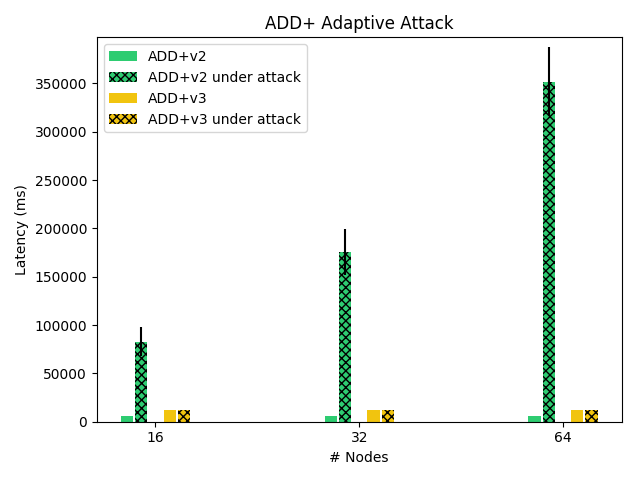
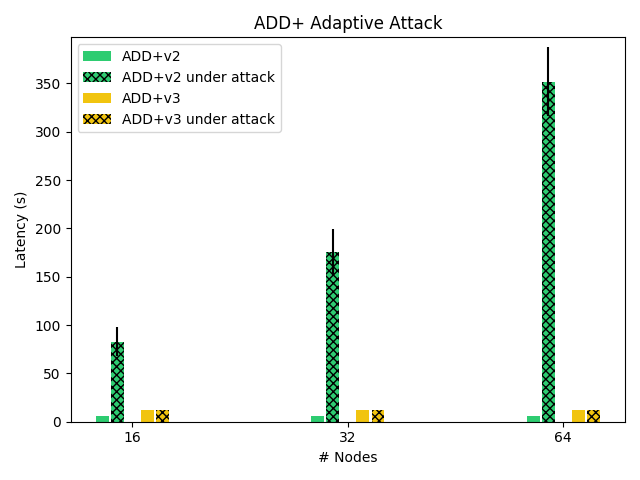
attack ms to s

diff --git a/draw-attack.py b/draw-attack.py
@@ -40,10 +40,10 @@ seperateDist = 0.04
 def draw(expData):
     fig, ax = plt.subplots()
     # Add some text for labels, title and custom x-axis tick labels, etc.
-    ax.set_ylabel('Latency (ms)')
+    ax.set_ylabel('Latency (s)')
     ax.set_xlabel('# Nodes')
     #ax.set_title(r'$Network = \mathcal{N}(250, 50), \lambda = 1000$')
-    ax.set_title('ADD+ Adaptive Attack')
+    ax.set_title('DEXON Adaptive Attack')
     ind = np.arange(len(expData[0]['means']))  # the x locations for the groups
     ax.set_xticks(ind)
     ax.set_xticklabels(('16', '32', '64'))
@@ -64,7 +64,7 @@ def draw(expData):
         
         #autolabel(rects, ax)
     print(yMax)
-    plt.ylim(top=yMax + 10000)
+    plt.ylim(top=yMax + 10)
     ax.legend(loc='upper left')
     fig.tight_layout()
     #plt.axhline(60000, color='k', linestyle='dashed', linewidth=1)
@@ -72,12 +72,80 @@ def draw(expData):
     plt.show()
 
 data = normal1.data
+# add+ static attack
+#attackData = static.data
+# add+ adaptive attack
+#attackData = adaptive.data
+# dexon adaptive attack
 attackData = adaptive.data
-dxnAttackData = dexon.data
+dexonAttackData = dexon.data
 t = 'l'
 mean = t + '_mean'
 std = t + '_std'
 expData = [
+    # add+ static attack
+    # {
+    #     'means': data['v-basic'][mean],
+    #     'std': data['v-basic'][std],
+    #     'label': 'ADD+v1',
+    #     'color': colors['r']
+    # },
+    # {
+    #     'means': attackData['v-basic'][mean],
+    #     'std': attackData['v-basic'][std],
+    #     'label': 'ADD+v1 under attack',
+    #     'color': colors['r']
+    # },
+    # {
+    #     'means': data['v-vrf'][mean],
+    #     'std': data['v-vrf'][std],
+    #     'label': 'ADD+v2',
+    #     'color': colors['g']
+    # },
+    # {
+    #     'means': attackData['v-vrf'][mean],
+    #     'std': attackData['v-vrf'][std],
+    #     'label': 'ADD+v2 under attack',
+    #     'color': colors['g']
+    # }
+    # add+ adaptive attack
+    # {
+    #     'means': data['v-vrf'][mean],
+    #     'std': data['v-vrf'][std],
+    #     'label': 'ADD+v2',
+    #     'color': colors['g']
+    # },
+    # {
+    #     'means': attackData['v-vrf'][mean],
+    #     'std': attackData['v-vrf'][std],
+    #     'label': 'ADD+v2 under attack',
+    #     'color': colors['g']
+    # },
+    # {
+    #     'means': data['v-adaptive'][mean],
+    #     'std': data['v-adaptive'][std],
+    #     'label': 'ADD+v3',
+    #     'color': colors['y']
+    # },
+    # {
+    #     'means': attackData['v-adaptive'][mean],
+    #     'std': attackData['v-adaptive'][std],
+    #     'label': 'ADD+v3 under attack',
+    #     'color': colors['y']
+    # }
+    # dexon adaptive attack
+    {
+        'means': data['dexon-hba'][mean],
+        'std': data['dexon-hba'][std],
+        'label': 'DEXON HBA',
+        'color': colors['p']
+    },
+    {
+        'means': dexonAttackData['dexon-hba'][mean],
+        'std': dexonAttackData['dexon-hba'][std],
+        'label': 'DEXON HBA under attack',
+        'color': colors['p']
+    },
     {
         'means': data['v-vrf'][mean],
         'std': data['v-vrf'][std],
@@ -90,37 +158,12 @@ expData = [
         'label': 'ADD+v2 under attack',
         'color': colors['g']
     },
-    {
-        'means': data['v-adaptive'][mean],
-        'std': data['v-adaptive'][std],
-        'label': 'ADD+v3',
-        'color': colors['y']
-    },
-    {
-        'means': attackData['v-adaptive'][mean],
-        'std': attackData['v-adaptive'][std],
-        'label': 'ADD+v3 under attack',
-        'color': colors['y']
-    },
-    # {
-    #     'means': data['aba'][mean],
-    #     'std': data['aba'][std],
-    #     'label': 'Async BA',
-    #     'color': 
-    # },
-    # {
-    #     'means': data['dexon-hba'][mean],
-    #     'std': data['dexon-hba'][std],
-    #     'label': 'DEXON HBA',
-    #     'color': 
-    # },
-    # {
-    #     'means': data['pbft'][mean],
-    #     'std': data['pbft'][std],
-    #     'label': 'PBFT',
-    #     'color': 
-    # }
 ]
+# latency ms to s
+if (t == 'l'):
+    for data in expData:
+        data['means'] = [i / 1000 for i in data['means']]
+        data['std'] = [i / 1000 for i in data['std']]
 # calculate pos
 l = len(expData)
 poss = range(0, l)

diff --git a/draw-res.py b/draw-res.py
@@ -218,24 +218,6 @@ expData = [
     #     'std': d5['std'],
     #     'label': r'$\lambda = 2000$',
     #     'color': colors['r']
-    # },
-    # {
-    #     'means': d2['mean'],
-    #     'std': d2['std'],
-    #     'label': r'$\mathcal{N}(250, 50)$',
-    #     'color': colors['g']
-    # },
-    # {
-    #     'means': lData['pbft'][mean][:1],
-    #     'std': lData['pbft'][std][:1],
-    #     'label': 'PBFT (' + r'$Network = \mathcal{N}(250, 50), \lambda = 2000$' + ')',
-    #     'color': '#34495e'
-    # },
-    # {
-    #     'means': data['pbft'][mean],
-    #     'std': data['pbft'][std],
-    #     'label': 'PBFT',
-    #     'color': '#8e44ad'
     # }
 ]
 # latency ms to s
